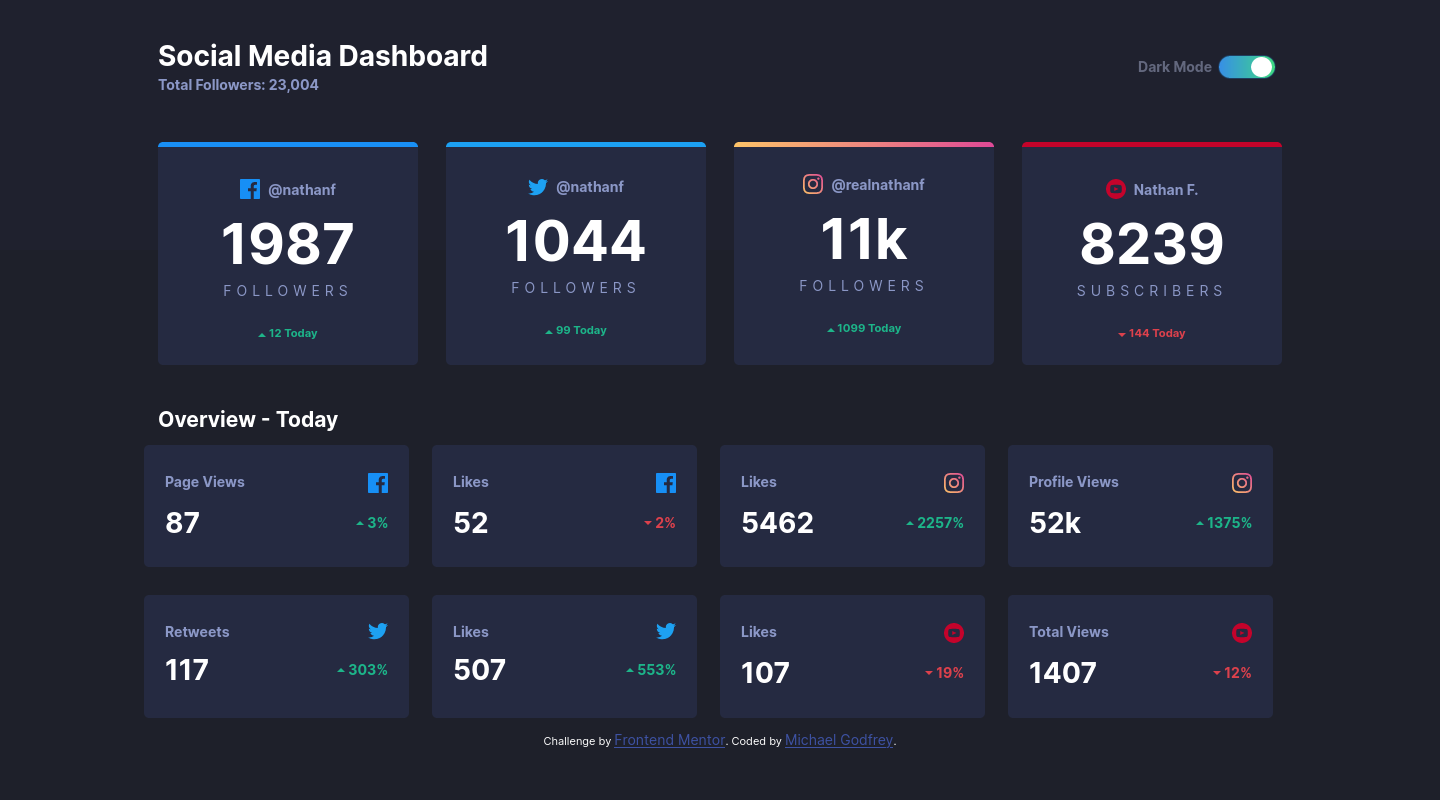
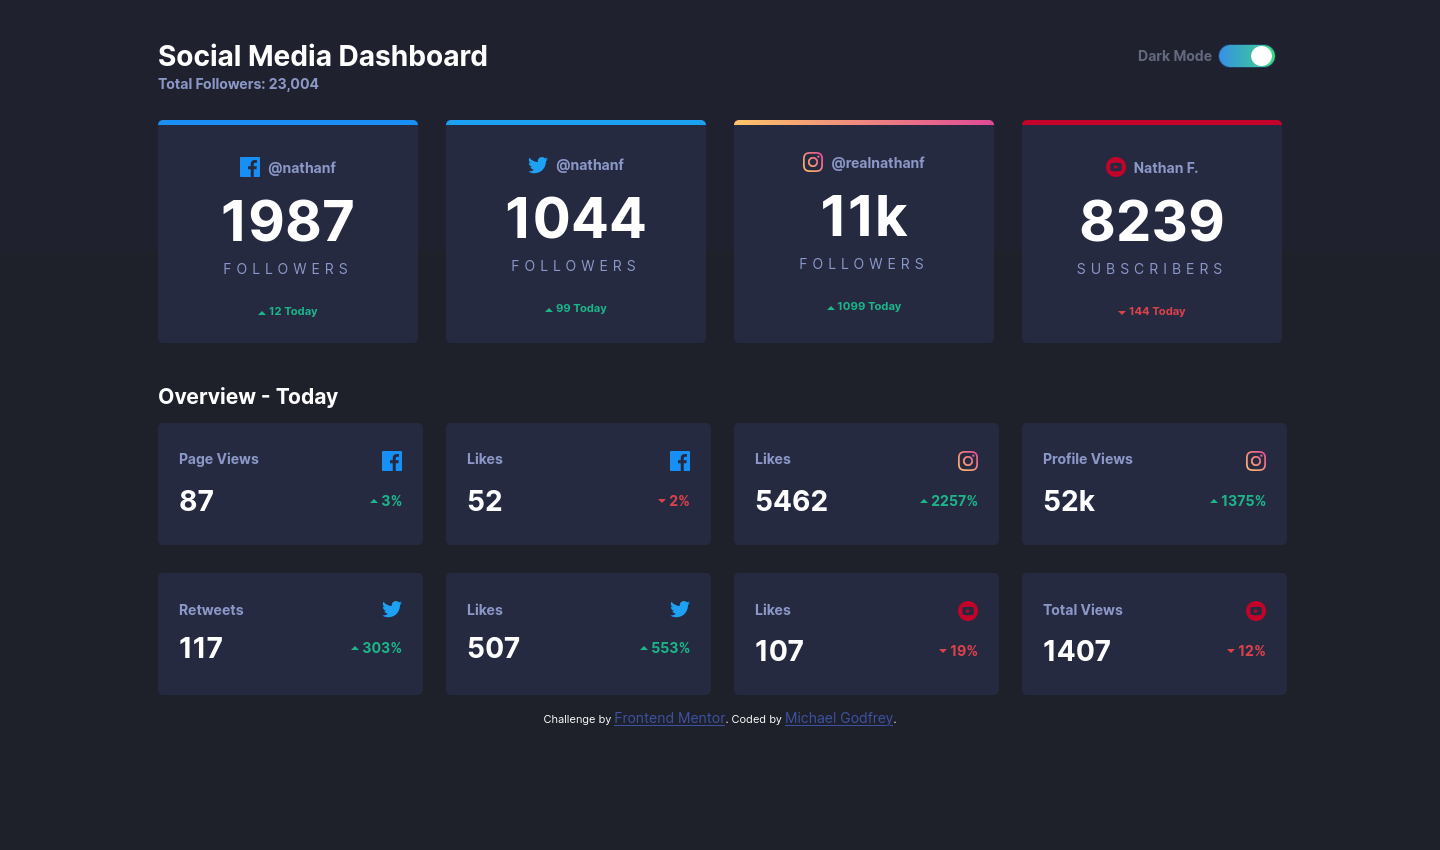
Positioning adjustment and accessibily fix

diff --git a/app.js b/app.js
@@ -2,7 +2,7 @@ function toggleDarkMode() {
    const body = document.querySelector("body");
    const backgroundTop = document.querySelector(".background-top");
    const h1 = document.querySelector("h1");
-   const h3 = document.querySelector("h3");
+   const followerCount = document.querySelector(".follower-count");
    const social__card = document.querySelectorAll(".social__card");
    const social__user = document.querySelectorAll(".social__user");
    const social__count = document.querySelectorAll(".social__count");
@@ -18,7 +18,7 @@ function toggleDarkMode() {
 
    h1.classList.toggle("dark-mode--title");
 
-   h3.classList.toggle("dark-mode--text");
+   followerCount.classList.toggle("dark-mode--text");
 
    for (let i = 0; i < social__card.length; i++) {
      social__card[i].classList.toggle("dark-mode--card");

diff --git a/style/style.css b/style/style.css
@@ -42,9 +42,14 @@ main {
   margin: 0 auto;
 }
 
-h3 {
+h1 {
+  margin-bottom: .25rem;
+}
+
+.follower-count {
   color: var(--dark-grayish-blue);
   margin: -1rem 0 1.5rem;
+  font-weight: 700;
 }
 
 hr {
@@ -310,7 +315,7 @@ h2 {
 
   .overview div {
     width: 77.5%;
-    margin: 1rem 0;
+    margin: 1rem;
   }
 }
 

diff --git a/index.html b/index.html
@@ -15,7 +15,7 @@
     <header>
       <div>
         <h1>Social Media Dashboard</h1>
-        <h3>Total Followers: 23,004</h3>
+        <span class="follower-count">Total Followers: 23,004</span>
       </div>
       <hr>
       <p class="toggle-container">
